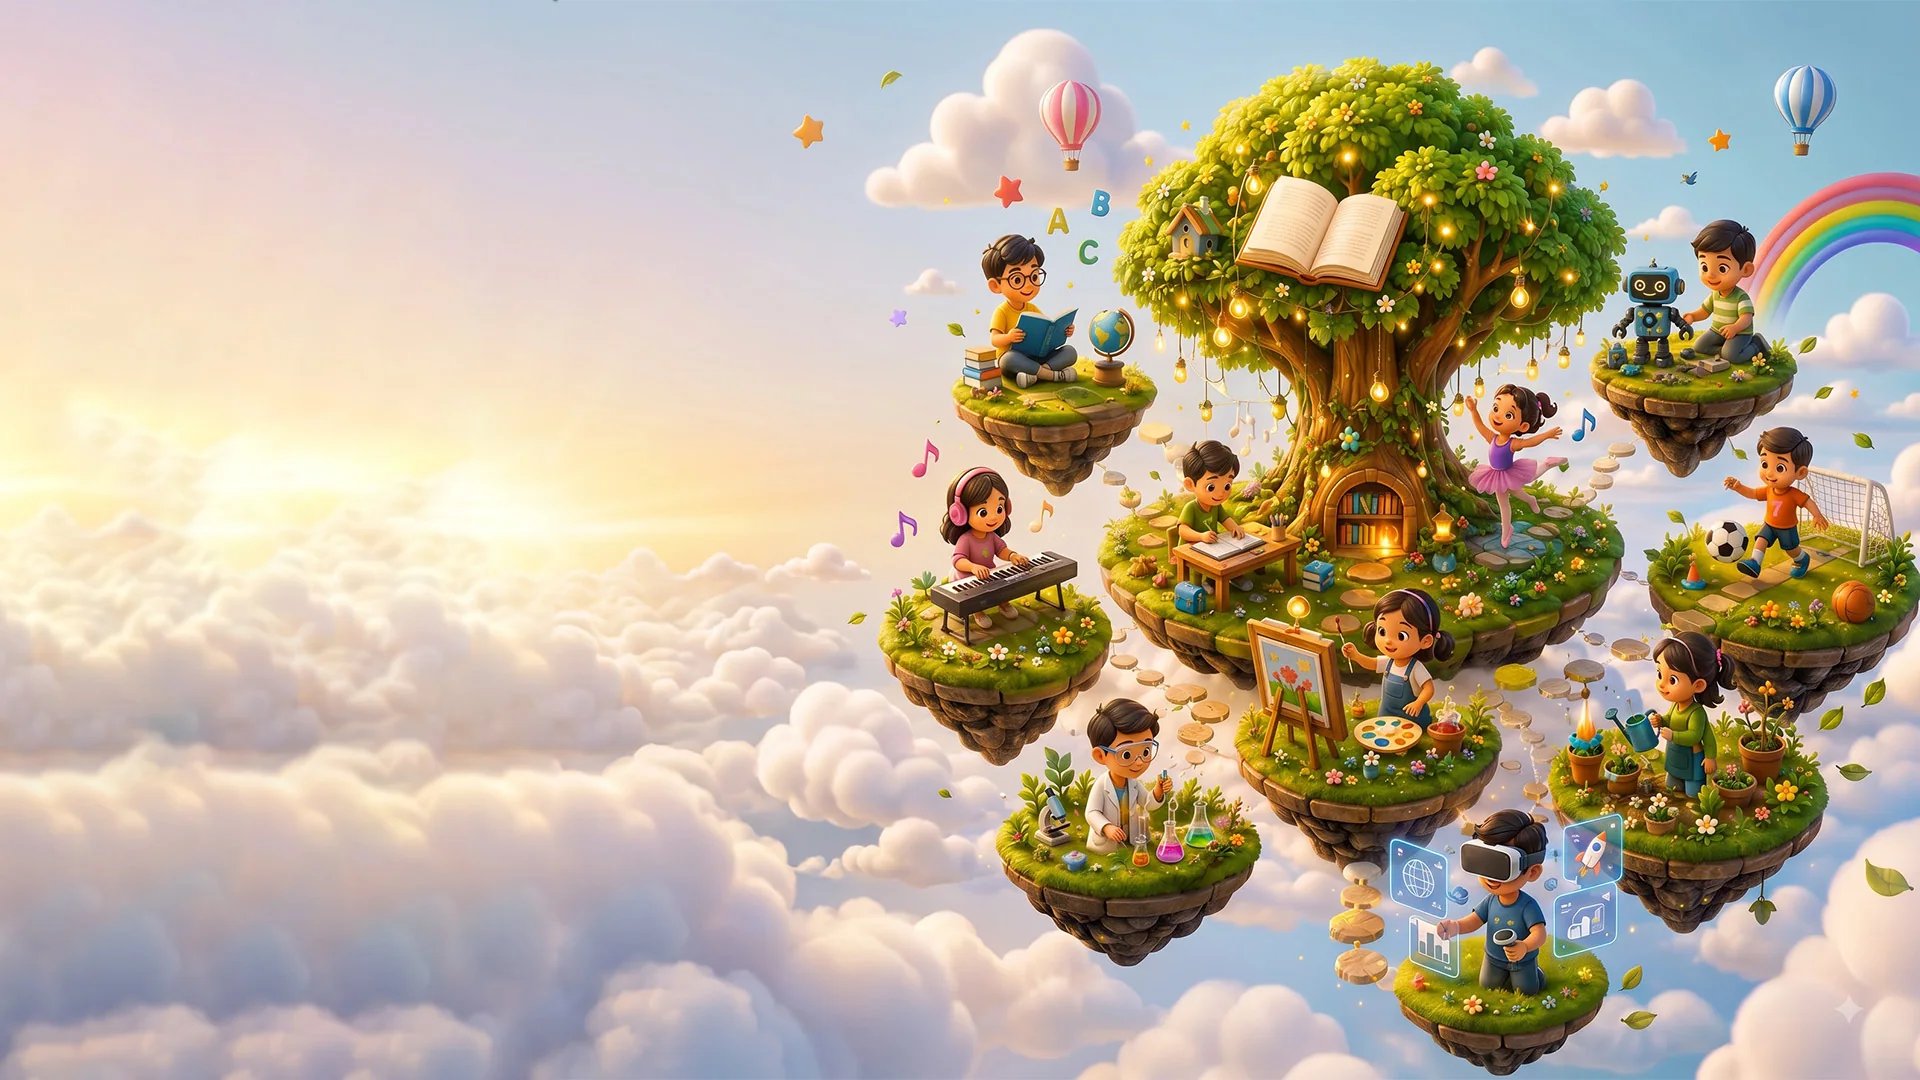
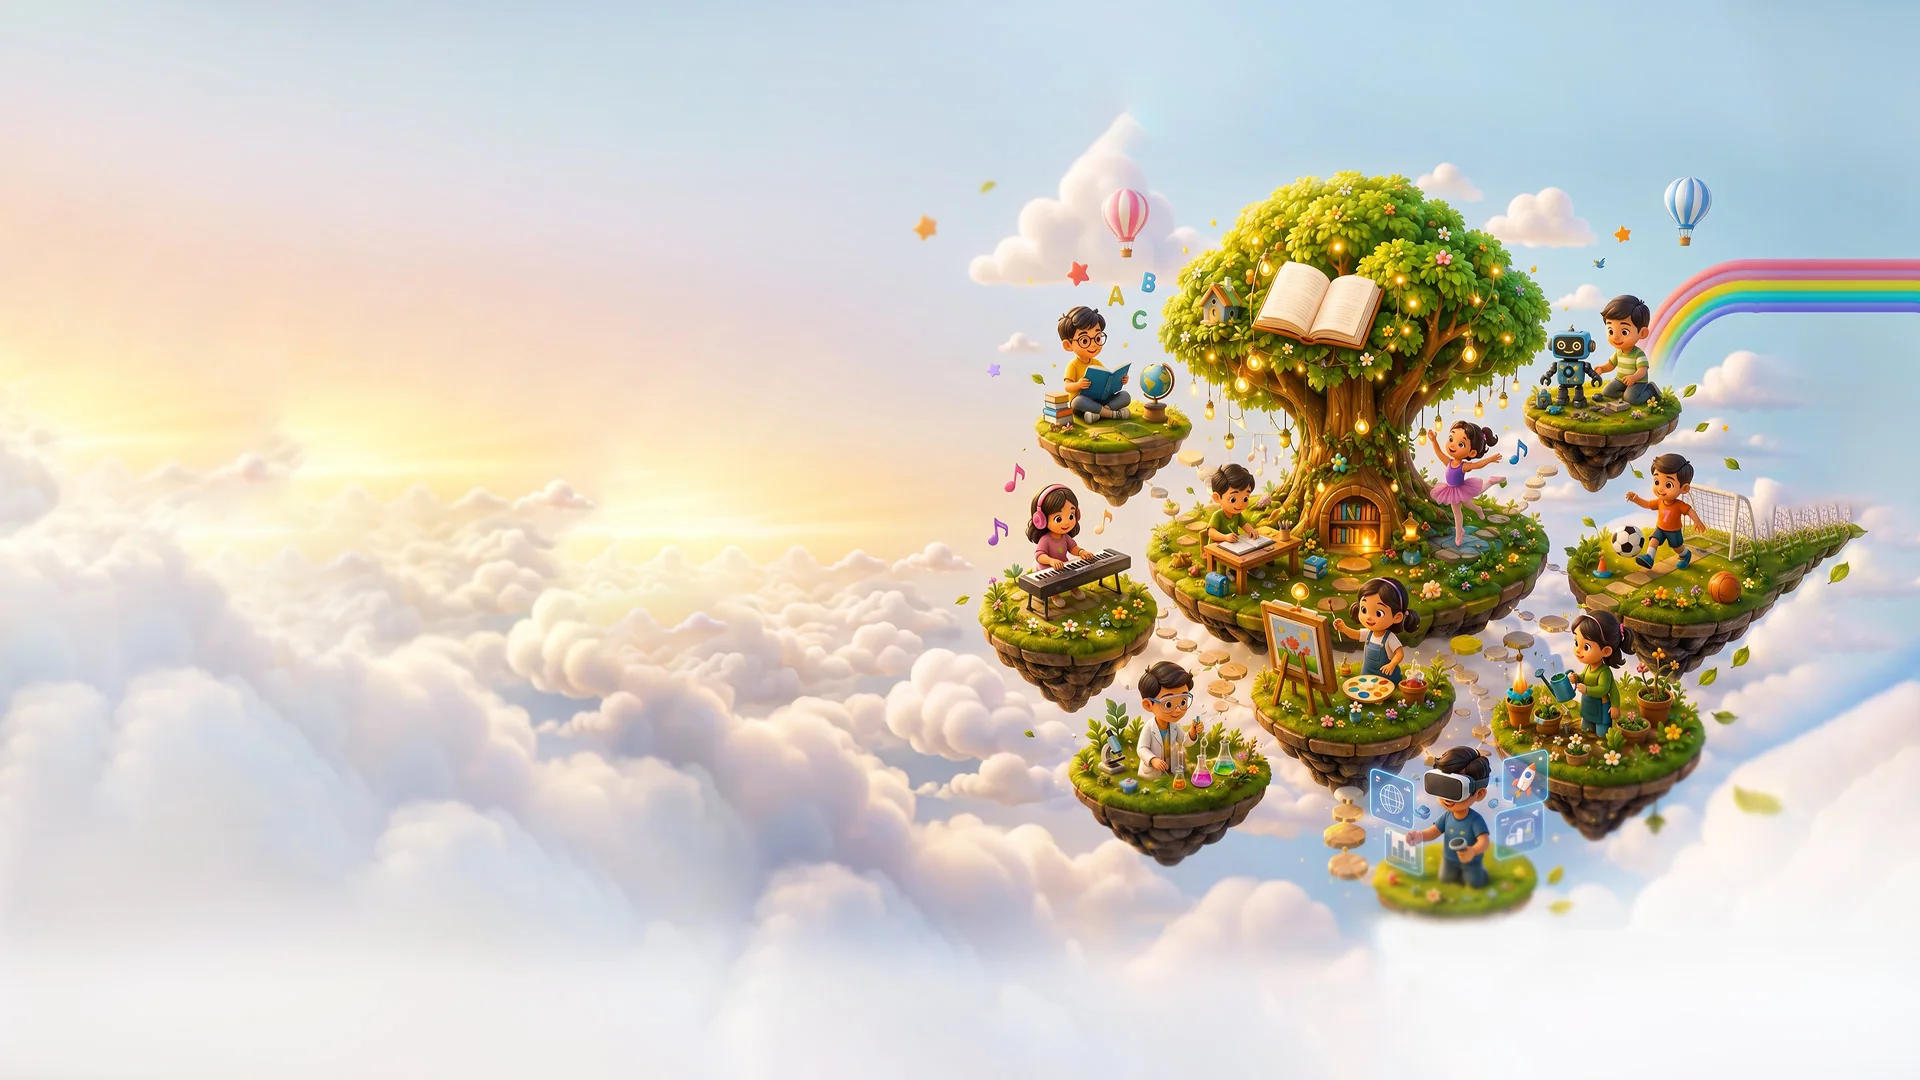
Take the four characters back out of the hero, and use the updated artwork
The hero shows the new hero.jpg (re-encoded to a 165KB webp, down from 240KB),
and the four cut-out children are gone from it: markup, CSS, the bob keyframe
and the reduced-motion entry that only existed for them.

The files stay in assets/img — 1.png-4.png and the kid-*.webp cut-outs made
from them — in case they find a home elsewhere; the README notes they are
unused.

Verified in Chromium at 1400: hero renders the new artwork with nothing
overlapping the copy, 31 pages, 1297 internal links, no broken links or
unbalanced tags, and the click-through suite passes.

Claude-Session: https://claude.ai/code/session_01AgUMYPYFt6ZZiQ8bGyyM6e

diff --git a/assets/css/etern.css b/assets/css/etern.css
@@ -309,11 +309,6 @@ svg.shape { background: none; }
   50% { transform: translateY(-16px) rotate(6deg); }
 }
 
-/* a straight rise and fall, for things that should not tilt */
-@keyframes bob {
-  0%, 100% { transform: translateY(0); }
-  50% { transform: translateY(-10px); }
-}
 
 /* -------------------------------------------------------- 5. type helpers */
 
@@ -896,29 +891,6 @@ svg.shape { background: none; }
 
 .hero-cta { display: flex; flex-direction: column; gap: 0.75rem; width: 100%; }
 @media (min-width: 640px) { .hero-cta { flex-direction: row; width: auto; } }
-
-/* the four cut-out children standing on the cloud bank below the copy */
-.hero-kids { display: none; }
-@media (min-width: 1180px) {
-  .hero-kids {
-    display: block;
-    position: absolute;
-    inset: 0;
-    z-index: 0;
-    pointer-events: none;
-  }
-  .hero-kid {
-    position: absolute;
-    bottom: 0;
-    width: auto;
-    filter: drop-shadow(0 18px 22px oklch(0.35 0.06 267 / 0.22));
-    animation: bob 8s ease-in-out infinite;
-  }
-  .hero-kid.k1 { left: 2%; height: 5.5rem; animation-delay: -1.2s; }
-  .hero-kid.k2 { left: 11%; height: 6.5rem; animation-delay: -3.4s; }
-  .hero-kid.k3 { left: 21%; height: 6rem; animation-delay: -2.1s; }
-  .hero-kid.k4 { left: 31%; height: 7rem; animation-delay: -4.6s; }
-}
 
 .feature-strip { position: relative; z-index: 1; padding-bottom: 4rem; }
 .feature-strip ul {
@@ -1951,7 +1923,7 @@ textarea.field { height: auto; min-height: 6rem; border-radius: var(--radius-md)
     transition-duration: 0.001ms !important;
   }
   .reveal { opacity: 1; transform: none; }
-  .hero-kid, .float-slow, .float-mid { animation: none; }
+  .float-slow, .float-mid { animation: none; }
   .quotes__track { scroll-behavior: auto; }
 }
 

diff --git a/index.html b/index.html
@@ -91,17 +91,6 @@
   <span class="shape shape--drop float-mid" aria-hidden="true"
       style="--shape-fill:var(--pink-soft);width:8rem;height:8rem;left:29%;bottom:12%"></span>
 
-  <div class="hero-kids" aria-hidden="true">
-    <img class="hero-kid k1" src="assets/img/kid-teddy.webp"
-         width="340" height="382" alt="" loading="lazy" decoding="async">
-    <img class="hero-kid k2" src="assets/img/kid-blocks.webp"
-         width="340" height="533" alt="" loading="lazy" decoding="async">
-    <img class="hero-kid k3" src="assets/img/kid-plant.webp"
-         width="340" height="506" alt="" loading="lazy" decoding="async">
-    <img class="hero-kid k4" src="assets/img/kid-rocket.webp"
-         width="340" height="545" alt="" loading="lazy" decoding="async">
-  </div>
-
   <div class="shell home-hero__grid">
     <div class="home-hero__copy">
       <p class="home-hero__eyebrow"><svg width="24" height="24" viewBox="0 0 24 24" fill="none" stroke="currentColor" stroke-width="2" stroke-linecap="round" stroke-linejoin="round" aria-hidden="true" focusable="false"><path d="M12 3l1.7 4.6L18 9.3l-4.3 1.7L12 15.6l-1.7-4.6L6 9.3l4.3-1.7z"/><path d="M18.5 15l.8 2.2 2.2.8-2.2.8-.8 2.2-.8-2.2-2.2-.8 2.2-.8z"/></svg> Learning made playful, ages 3–7</p>

diff --git a/README.md b/README.md
@@ -28,7 +28,7 @@ privacy.html  terms.html   legal
 
 assets/css/etern.css       the entire design system, one file
 assets/js/*.js             five small scripts, listed below
-assets/img/                logo, favicon, hero scene, character cut-outs, dashboard picture, OG card
+assets/img/                logo, favicon, hero scene, dashboard picture, OG card
 robots.txt  sitemap.xml
 
 tools/                     the generator that produced the HTML above
@@ -119,18 +119,15 @@ left half is open sky. From 1024px up it covers the whole hero and the copy sits
 over that open half behind a soft wash of daylight; below that the hero stacks,
 with the picture above the copy and cropped to the islands on phones.
 
-Four cut-out children (`assets/img/kid-*.webp`) stand on the cloud bank under
-the copy from 1180px up. They are decoration — `aria-hidden`, and dropped
-entirely on smaller screens.
-
 To change the artwork, drop a file into `assets/img/` named `hero-scene.png`
 (or `.webp` / `.jpg`) and rebuild — `tools/sections.mjs` (`HERO_ART`) picks up
 the first one that exists and falls back to `hero-world`. Compose it like this
 one, with the subject on the right and open sky on the left, so the headline has
 somewhere quiet to sit; 16:9 keeps the hero's proportions.
 
-`hero.jpg` and `1.png`–`4.png` are the supplied originals, kept beside the
-optimised versions the site actually loads.
+`hero.jpg` is the supplied original, kept beside the optimised `.webp` the site
+loads. `1.png`–`4.png` and the `kid-*.webp` cut-outs made from them are in the
+folder but unused: they were tried in the hero and taken back out.
 
 ## The parent-dashboard photo
 
